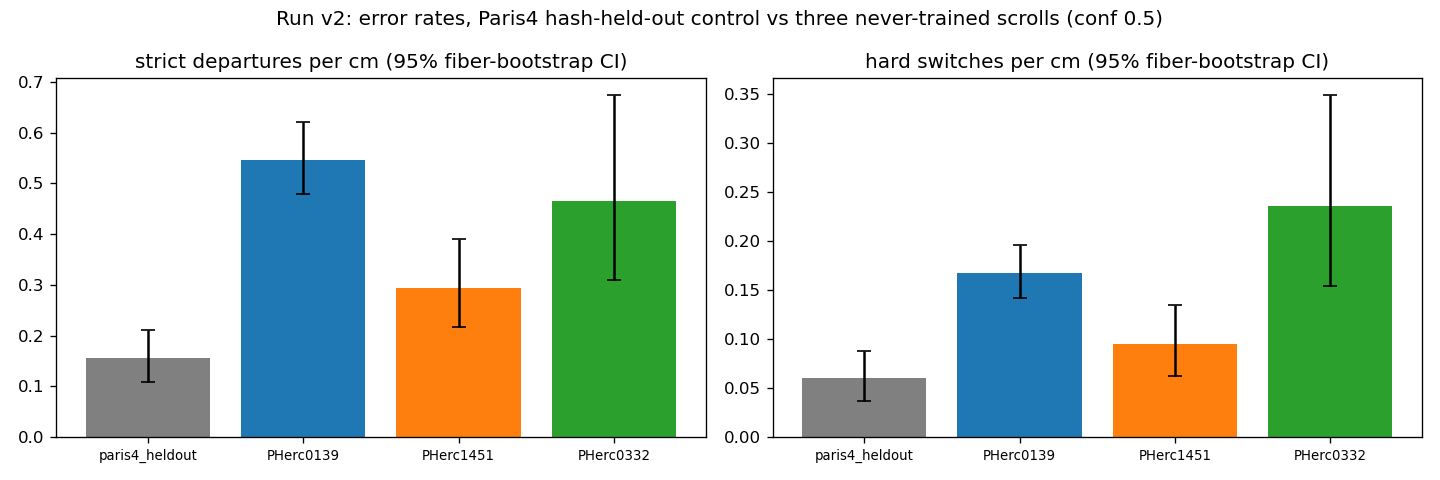
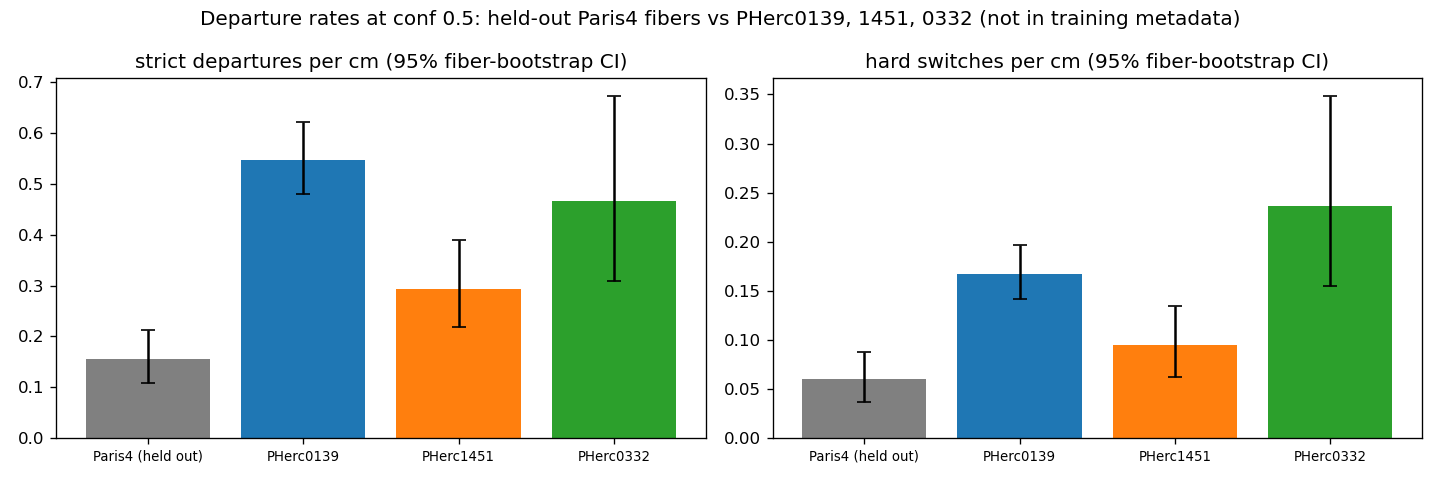
Neutral figure labels; drop combined bars from the detection figure

diff --git a/code/confirm_v2.py b/code/confirm_v2.py
@@ -40,12 +40,13 @@ def recall_ci(e, col):
 def figures(summ, rec, img):
     import matplotlib.pyplot as plt
     names = list(S.SOURCES)
+    label = {'paris4_heldout': 'Paris4 (held out)', 'unseen pooled': '3 scrolls pooled'}
     fig, ax = plt.subplots(1, 2, figsize=(12, 4))
     for a, m, title in ((ax[0], 'departures_per_cm', 'strict departures per cm'), (ax[1], 'hard_switches_per_cm', 'hard switches per cm')):
         s = summ.set_index('source').loc[names]
-        a.bar(names, s[m], yerr=[s[m]-s[m+'_lo'], s[m+'_hi']-s[m]], capsize=4, color=['grey', 'C0', 'C1', 'C2'])
+        a.bar([label.get(n, n) for n in names], s[m], yerr=[s[m]-s[m+'_lo'], s[m+'_hi']-s[m]], capsize=4, color=['grey', 'C0', 'C1', 'C2'])
         a.set_title(f'{title} (95% fiber-bootstrap CI)'); a.tick_params(axis='x', labelsize=8)
-    fig.suptitle('Run v2: error rates, Paris4 hash-held-out control vs three never-trained scrolls (conf 0.5)')
+    fig.suptitle('Departure rates at conf 0.5: held-out Paris4 fibers vs PHerc0139, 1451, 0332 (not in training metadata)')
     fig.tight_layout(); fig.savefig(OUT/'figures'/'fig7_v2_rates.png', dpi=120); plt.close(fig)
 
     groups = names + ['unseen pooled']
@@ -53,13 +54,12 @@ def figures(summ, rec, img):
     for a, cls in zip(ax, ('hard_switch', 'all persistent', 'returned')):
         r = rec[rec.cls == cls].set_index('source').loc[groups]
         x = np.arange(len(groups))
-        for k, (s, col, lab) in enumerate((('fb', 'C0', 'fwd/back (fb>0)'), ('conf', 'C1', 'confidence (min conf16<0.566)'),
-                                           ('combo', 'C3', 'combined (frozen v1 model)'))):
-            a.bar(x + (k-1)*0.27, r[s], 0.27, yerr=[(r[s]-r[s+'_lo']).clip(0), (r[s+'_hi']-r[s]).clip(0)], capsize=3, color=col, label=lab)
-        a.set_xticks(x, [f'{g}\nn={int(n)}' for g, n in zip(groups, r['n'])], fontsize=7)
-        a.set_title(f'{cls}: fraction caught within 192 vx'); a.set_ylim(0, 1.05)
+        for k, (s, col, lab) in enumerate((('fb', 'C0', 'fwd/back check'), ('conf', 'C1', 'confidence < 0.566'))):
+            a.bar(x + (k-0.5)*0.36, r[s], 0.36, yerr=[(r[s]-r[s+'_lo']).clip(0), (r[s+'_hi']-r[s]).clip(0)], capsize=3, color=col, label=lab)
+        a.set_xticks(x, [f'{label.get(g, g)}\nn={int(n)}' for g, n in zip(groups, r['n'])], fontsize=7)
+        a.set_title(f"{cls.replace('_', ' ')}: fraction flagged within 192 vx"); a.set_ylim(0, 1.05)
     ax[0].legend(fontsize=7, loc='upper left')
-    fig.suptitle('Run v2: departures flagged at thresholds frozen on run v1 (95% fiber-bootstrap CI)')
+    fig.suptitle('Departures flagged by each check, thresholds frozen on the pilot run (95% fiber-bootstrap CI)')
     fig.tight_layout(); fig.savefig(OUT/'figures'/'fig8_v2_detection.png', dpi=120); plt.close(fig)
 
     if img is not None and len(img):

diff --git a/README.md b/README.md
@@ -57,14 +57,14 @@ back-trace point lies more than 3 vx from the forward path. The confidence flag 
 16th-point running minimum the tracer itself uses) drops below 0.566 in the same stretch. Both thresholds were frozen
 on the pilot run. A departure counts as caught if a check within 192 vx after it flags.
 
-| Hard switches caught | Paris4 | 0139 | 1451 | 0332 | unseen pooled |
+| Hard switches caught | Paris4 | 0139 | 1451 | 0332 | 3 scrolls pooled |
 |---|---|---|---|---|---|
 | n | 51 | 271 | 48 | 75 | 394 |
 | fwd/back | 47% | 45% | 75% | 12% | **42%** [36, 49] |
 | confidence | 20% | 33% | 46% | 17% | **32%** [27, 37] |
 | difference, fiber-level 95% CI | +27 [+6, +47] | +12 [+4, +19] | +29 [+6, +51] | −5 [−14, +3] | +11 [+4, +17] |
 | fiber-level p (cluster sign-flip) | 0.045 | 0.004 | 0.035 | 0.37 | 0.002 |
-| both combined (frozen logistic model) | 59% | 66% | 92% | 44% | 65% |
+| combined: logistic model of both signals, frozen on the pilot (more false alarms, below) | 59% | 66% | 92% | 44% | 65% |
 
 | False alarms per cm of on-fiber path | Paris4 | 0139 | 1451 | 0332 |
 |---|---|---|---|---|
@@ -77,7 +77,7 @@ on the pilot run. A departure counts as caught if a check within 192 vx after it
 - **False alarms.** In these runs fwd/back raised fewer false alarms per cm than confidence on all four sets.
 - **0332.** On PHerc0332 it flagged fewer hard switches than confidence. These runs don't show why.
 - **Returned excursions.** For small excursions that come back, confidence catches more than fwd/back (22% vs 16%,
-  unseen pooled).
+  three scrolls pooled).
 - **Unchecked departures.** 232 of 1,930 departures had no check within 192 vx (trace ended), so they are left out of
   both detectors' counts.
 
@@ -137,7 +137,7 @@ contrast) did not differ from on-fiber controls (`results/v2/image_features*.csv
 - **Paris4 control.** Training used a hash split over fibers outside a legacy reserved list that is not public. From
   the checkpoint's own counts, 55 of the 62 Paris4 fibers are held out for certain, and the other 7 very likely.
   Results on the 55 alone are the same: ratio 3.11×, fwd/back 48% vs confidence 20%. The model also trained on
-  automated fibers of the same Paris4 scan, so Paris4 is a same-scroll comparison, not an unseen one.
+  automated fibers of the same Paris4 scan, so Paris4 is a same-scroll comparison.
 - **Fwd/back implementation.** The check is this repo's own implementation (`code/fwdback.py`). It is not the procedure
   mentioned in the release notes.
 - **Release-note metrics.** "90% of fiber length within 1.5 vx" and "leaves a fiber less than 1% of the time" were not
